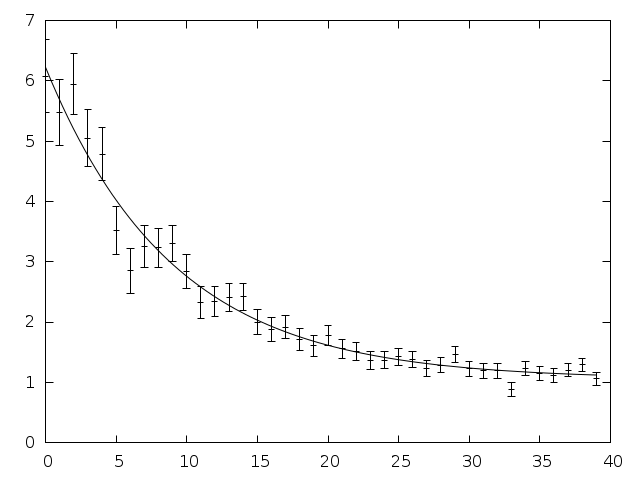
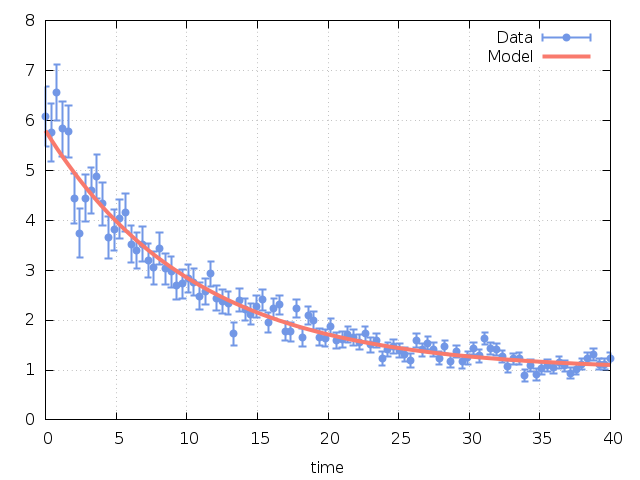
bug fix in nlfit.c example for larger datasets (Anna Russo)

diff --git a/doc/examples/nlfit.c b/doc/examples/nlfit.c
@@ -7,11 +7,12 @@
 #include <gsl/gsl_blas.h>
 #include <gsl/gsl_multifit_nlinear.h>
 
-/* number of data points to fit */
-#define N 40
+#define N      100    /* number of data points to fit */
+#define TMAX   (40.0) /* time variable in [0,TMAX] */
 
 struct data {
   size_t n;
+  double * t;
   double * y;
 };
 
@@ -20,6 +21,7 @@ expb_f (const gsl_vector * x, void *data,
         gsl_vector * f)
 {
   size_t n = ((struct data *)data)->n;
+  double *t = ((struct data *)data)->t;
   double *y = ((struct data *)data)->y;
 
   double A = gsl_vector_get (x, 0);
@@ -30,9 +32,8 @@ expb_f (const gsl_vector * x, void *data,
 
   for (i = 0; i < n; i++)
     {
-      /* Model Yi = A * exp(-lambda * i) + b */
-      double t = i;
-      double Yi = A * exp (-lambda * t) + b;
+      /* Model Yi = A * exp(-lambda * t_i) + b */
+      double Yi = A * exp (-lambda * t[i]) + b;
       gsl_vector_set (f, i, Yi - y[i]);
     }
 
@@ -44,6 +45,7 @@ expb_df (const gsl_vector * x, void *data,
          gsl_matrix * J)
 {
   size_t n = ((struct data *)data)->n;
+  double *t = ((struct data *)data)->t;
 
   double A = gsl_vector_get (x, 0);
   double lambda = gsl_vector_get (x, 1);
@@ -54,14 +56,14 @@ expb_df (const gsl_vector * x, void *data,
     {
       /* Jacobian matrix J(i,j) = dfi / dxj, */
       /* where fi = (Yi - yi)/sigma[i],      */
-      /*       Yi = A * exp(-lambda * i) + b  */
+      /*       Yi = A * exp(-lambda * t_i) + b  */
       /* and the xj are the parameters (A,lambda,b) */
-      double t = i;
-      double e = exp(-lambda * t);
+      double e = exp(-lambda * t[i]);
       gsl_matrix_set (J, i, 0, e); 
-      gsl_matrix_set (J, i, 1, -t * A * e);
+      gsl_matrix_set (J, i, 1, -t[i] * A * e);
       gsl_matrix_set (J, i, 2, 1.0);
     }
+
   return GSL_SUCCESS;
 }
 
@@ -99,8 +101,8 @@ main (void)
   gsl_vector *f;
   gsl_matrix *J;
   gsl_matrix *covar = gsl_matrix_alloc (p, p);
-  double y[N], weights[N];
-  struct data d = { n, y };
+  double t[N], y[N], weights[N];
+  struct data d = { n, t, y };
   double x_init[3] = { 1.0, 1.0, 0.0 }; /* starting values */
   gsl_vector_view x = gsl_vector_view_array (x_init, p);
   gsl_vector_view wts = gsl_vector_view_array(weights, n);
@@ -127,14 +129,15 @@ main (void)
   /* this is the data to be fitted */
   for (i = 0; i < n; i++)
     {
-      double t = i;
-      double yi = 1.0 + 5 * exp (-0.1 * t);
+      double ti = i * TMAX / (n - 1.0);
+      double yi = 1.0 + 5 * exp (-0.1 * ti);
       double si = 0.1 * yi;
       double dy = gsl_ran_gaussian(r, si);
 
-      weights[i] = 1.0 / (si * si);
+      t[i] = ti;
       y[i] = yi + dy;
-      printf ("data: %zu %g %g\n", i, y[i], si);
+      weights[i] = 1.0 / (si * si);
+      printf ("data: %g %g %g\n", ti, y[i], si);
     };
 
   /* allocate workspace with default parameters */
@@ -147,8 +150,8 @@ main (void)
   f = gsl_multifit_nlinear_residual(w);
   gsl_blas_ddot(f, f, &chisq0);
 
-  /* solve the system with a maximum of 20 iterations */
-  status = gsl_multifit_nlinear_driver(20, xtol, gtol, ftol,
+  /* solve the system with a maximum of 100 iterations */
+  status = gsl_multifit_nlinear_driver(100, xtol, gtol, ftol,
                                        callback, NULL, &info, w);
 
   /* compute covariance of best fit parameters */

diff --git a/doc/nls.rst b/doc/nls.rst
@@ -1325,7 +1325,8 @@ fitting function is given by,
 
 .. math:: f_i = (A \exp(-\lambda t_i) + b) - y_i
 
-where we have chosen :math:`t_i = i`.  The Jacobian matrix :math:`J` is
+where we have chosen :math:`t_i = i T / (N - 1)`, where :math:`N` is the number
+of data points fitted, so that :math:`t_i \in [0, T]`. The Jacobian matrix :math:`J` is
 the derivative of these functions with respect to the three parameters
 (:math:`A`, :math:`\lambda`, :math:`b`).  It is given by,
 
@@ -1362,41 +1363,14 @@ The :math:`i`-th row of the Jacobian is therefore
 The main part of the program sets up a Levenberg-Marquardt solver and
 some simulated random data. The data uses the known parameters
 (5.0,0.1,1.0) combined with Gaussian noise (standard deviation = 0.1)
-over a range of 40 timesteps. The initial guess for the parameters is
+with a maximum time :math:`T = 40` and :math:`N = 100` timesteps.
+The initial guess for the parameters is
 chosen as (1.0, 1.0, 0.0). The iteration terminates when the relative
 change in x is smaller than :math:`10^{-8}`, or when the magnitude of
 the gradient falls below :math:`10^{-8}`. Here are the results of running
-the program::
+the program:
 
-  iter  0: A = 1.0000, lambda = 1.0000, b = 0.0000, cond(J) =      inf, |f(x)| = 62.2029
-  iter  1: A = 1.2196, lambda = 0.3663, b = 0.0436, cond(J) =  53.6368, |f(x)| = 59.8062
-  iter  2: A = 1.6062, lambda = 0.1506, b = 0.1054, cond(J) =  23.8178, |f(x)| = 53.9039
-  iter  3: A = 2.4528, lambda = 0.0583, b = 0.2470, cond(J) =  20.0493, |f(x)| = 28.8039
-  iter  4: A = 2.9723, lambda = 0.0494, b = 0.3727, cond(J) =  94.5601, |f(x)| = 15.3252
-  iter  5: A = 3.3473, lambda = 0.0477, b = 0.4410, cond(J) = 229.3627, |f(x)| = 10.7511
-  iter  6: A = 3.6690, lambda = 0.0508, b = 0.4617, cond(J) = 298.3589, |f(x)| = 9.7373
-  iter  7: A = 3.9907, lambda = 0.0580, b = 0.5433, cond(J) = 250.0194, |f(x)| = 8.7661
-  iter  8: A = 4.2353, lambda = 0.0731, b = 0.7989, cond(J) = 154.8571, |f(x)| = 7.4299
-  iter  9: A = 4.6573, lambda = 0.0958, b = 1.0302, cond(J) = 140.2265, |f(x)| = 6.1893
-  iter 10: A = 5.0138, lambda = 0.1060, b = 1.0329, cond(J) = 109.4141, |f(x)| = 5.4961
-  iter 11: A = 5.1505, lambda = 0.1103, b = 1.0497, cond(J) = 100.8762, |f(x)| = 5.4552
-  iter 12: A = 5.1724, lambda = 0.1110, b = 1.0526, cond(J) =  97.3403, |f(x)| = 5.4542
-  iter 13: A = 5.1737, lambda = 0.1110, b = 1.0528, cond(J) =  96.7136, |f(x)| = 5.4542
-  iter 14: A = 5.1738, lambda = 0.1110, b = 1.0528, cond(J) =  96.6678, |f(x)| = 5.4542
-  iter 15: A = 5.1738, lambda = 0.1110, b = 1.0528, cond(J) =  96.6663, |f(x)| = 5.4542
-  iter 16: A = 5.1738, lambda = 0.1110, b = 1.0528, cond(J) =  96.6663, |f(x)| = 5.4542
-  summary from method 'trust-region/levenberg-marquardt'
-  number of iterations: 16
-  function evaluations: 23
-  Jacobian evaluations: 17
-  reason for stopping: small step size
-  initial |f(x)| = 62.202928
-  final   |f(x)| = 5.454180
-  chisq/dof = 0.804002
-  A      = 5.17379 +/- 0.27938
-  lambda = 0.11104 +/- 0.00817
-  b      = 1.05283 +/- 0.05365
-  status = success
+.. literalinclude:: examples/nlfit.err
 
 The approximate values of the parameters are found correctly, and the
 chi-squared value indicates a good fit (the chi-squared per degree of
